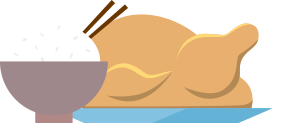
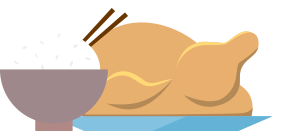
update

diff --git a/src/spritesmith-generated/sprite.scss b/src/spritesmith-generated/sprite.scss
@@ -15,93 +15,93 @@ $next-y: 0px;
 $next-offset-x: 0px;
 $next-offset-y: 0px;
 $next-width: 46px;
-$next-height: 44px;
+$next-height: 60px;
 $next-total-width: 540px;
-$next-total-height: 1922px;
+$next-total-height: 2090px;
 $next-image: '../spritesmith-generated/sprite.png';
-$next: (0px, 0px, 0px, 0px, 46px, 44px, 540px, 1922px, '../spritesmith-generated/sprite.png', 'next', );
+$next: (0px, 0px, 0px, 0px, 46px, 60px, 540px, 2090px, '../spritesmith-generated/sprite.png', 'next', );
 $chicken-name: 'chicken';
 $chicken-x: 0px;
-$chicken-y: 44px;
+$chicken-y: 60px;
 $chicken-offset-x: 0px;
-$chicken-offset-y: -44px;
+$chicken-offset-y: -60px;
 $chicken-width: 285px;
-$chicken-height: 123px;
+$chicken-height: 140px;
 $chicken-total-width: 540px;
-$chicken-total-height: 1922px;
+$chicken-total-height: 2090px;
 $chicken-image: '../spritesmith-generated/sprite.png';
-$chicken: (0px, 44px, 0px, -44px, 285px, 123px, 540px, 1922px, '../spritesmith-generated/sprite.png', 'chicken', );
+$chicken: (0px, 60px, 0px, -60px, 285px, 140px, 540px, 2090px, '../spritesmith-generated/sprite.png', 'chicken', );
 $boy-name: 'boy';
 $boy-x: 0px;
-$boy-y: 167px;
+$boy-y: 200px;
 $boy-offset-x: 0px;
-$boy-offset-y: -167px;
+$boy-offset-y: -200px;
 $boy-width: 155px;
-$boy-height: 183px;
+$boy-height: 200px;
 $boy-total-width: 540px;
-$boy-total-height: 1922px;
+$boy-total-height: 2090px;
 $boy-image: '../spritesmith-generated/sprite.png';
-$boy: (0px, 167px, 0px, -167px, 155px, 183px, 540px, 1922px, '../spritesmith-generated/sprite.png', 'boy', );
+$boy: (0px, 200px, 0px, -200px, 155px, 200px, 540px, 2090px, '../spritesmith-generated/sprite.png', 'boy', );
 $medal-name: 'medal';
 $medal-x: 0px;
-$medal-y: 350px;
+$medal-y: 400px;
 $medal-offset-x: 0px;
-$medal-offset-y: -350px;
+$medal-offset-y: -400px;
 $medal-width: 150px;
-$medal-height: 186px;
+$medal-height: 200px;
 $medal-total-width: 540px;
-$medal-total-height: 1922px;
+$medal-total-height: 2090px;
 $medal-image: '../spritesmith-generated/sprite.png';
-$medal: (0px, 350px, 0px, -350px, 150px, 186px, 540px, 1922px, '../spritesmith-generated/sprite.png', 'medal', );
-$milk-name: 'milk';
-$milk-x: 0px;
-$milk-y: 536px;
-$milk-offset-x: 0px;
-$milk-offset-y: -536px;
-$milk-width: 193px;
-$milk-height: 196px;
-$milk-total-width: 540px;
-$milk-total-height: 1922px;
-$milk-image: '../spritesmith-generated/sprite.png';
-$milk: (0px, 536px, 0px, -536px, 193px, 196px, 540px, 1922px, '../spritesmith-generated/sprite.png', 'milk', );
+$medal: (0px, 400px, 0px, -400px, 150px, 200px, 540px, 2090px, '../spritesmith-generated/sprite.png', 'medal', );
 $fries-name: 'fries';
 $fries-x: 0px;
-$fries-y: 732px;
+$fries-y: 600px;
 $fries-offset-x: 0px;
-$fries-offset-y: -732px;
+$fries-offset-y: -600px;
 $fries-width: 197px;
-$fries-height: 204px;
+$fries-height: 220px;
 $fries-total-width: 540px;
-$fries-total-height: 1922px;
+$fries-total-height: 2090px;
 $fries-image: '../spritesmith-generated/sprite.png';
-$fries: (0px, 732px, 0px, -732px, 197px, 204px, 540px, 1922px, '../spritesmith-generated/sprite.png', 'fries', );
+$fries: (0px, 600px, 0px, -600px, 197px, 220px, 540px, 2090px, '../spritesmith-generated/sprite.png', 'fries', );
+$milk-name: 'milk';
+$milk-x: 0px;
+$milk-y: 820px;
+$milk-offset-x: 0px;
+$milk-offset-y: -820px;
+$milk-width: 193px;
+$milk-height: 220px;
+$milk-total-width: 540px;
+$milk-total-height: 2090px;
+$milk-image: '../spritesmith-generated/sprite.png';
+$milk: (0px, 820px, 0px, -820px, 193px, 220px, 540px, 2090px, '../spritesmith-generated/sprite.png', 'milk', );
 $purse-name: 'purse';
 $purse-x: 0px;
-$purse-y: 936px;
+$purse-y: 1040px;
 $purse-offset-x: 0px;
-$purse-offset-y: -936px;
+$purse-offset-y: -1040px;
 $purse-width: 210px;
-$purse-height: 220px;
+$purse-height: 250px;
 $purse-total-width: 540px;
-$purse-total-height: 1922px;
+$purse-total-height: 2090px;
 $purse-image: '../spritesmith-generated/sprite.png';
-$purse: (0px, 936px, 0px, -936px, 210px, 220px, 540px, 1922px, '../spritesmith-generated/sprite.png', 'purse', );
+$purse: (0px, 1040px, 0px, -1040px, 210px, 250px, 540px, 2090px, '../spritesmith-generated/sprite.png', 'purse', );
 $background-name: 'background';
 $background-x: 0px;
-$background-y: 1156px;
+$background-y: 1290px;
 $background-offset-x: 0px;
-$background-offset-y: -1156px;
+$background-offset-y: -1290px;
 $background-width: 540px;
-$background-height: 766px;
+$background-height: 800px;
 $background-total-width: 540px;
-$background-total-height: 1922px;
+$background-total-height: 2090px;
 $background-image: '../spritesmith-generated/sprite.png';
-$background: (0px, 1156px, 0px, -1156px, 540px, 766px, 540px, 1922px, '../spritesmith-generated/sprite.png', 'background', );
+$background: (0px, 1290px, 0px, -1290px, 540px, 800px, 540px, 2090px, '../spritesmith-generated/sprite.png', 'background', );
 $spritesheet-width: 540px;
-$spritesheet-height: 1922px;
+$spritesheet-height: 2090px;
 $spritesheet-image: '../spritesmith-generated/sprite.png';
-$spritesheet-sprites: ($next, $chicken, $boy, $medal, $milk, $fries, $purse, $background, );
-$spritesheet: (540px, 1922px, '../spritesmith-generated/sprite.png', $spritesheet-sprites, );
+$spritesheet-sprites: ($next, $chicken, $boy, $medal, $fries, $milk, $purse, $background, );
+$spritesheet: (540px, 2090px, '../spritesmith-generated/sprite.png', $spritesheet-sprites, );
 
 // The provided mixins are intended to be used with the array-like variables
 //

diff --git a/src/components/index.vue b/src/components/index.vue
@@ -1,20 +1,32 @@
 <template>
-	<div class="background">
-		<div class="test"></div>
-	</div>
+    <div class="background">
+        <div class="test">
+        	<purse></purse>
+        </div>
+    </div>
 </template>
-
-<style lang = 'sass'>
+<script>
+import Purse from './purse.vue'
+export default {
+    components: {
+        "purse": Purse,
+    },
+}
+</script>
+<style lang='sass'>
 @import '../spritesmith-generated/sprite.scss';
 @import '../scss/common.scss';
-.background{
-	width:100%;
-	height: 100%;
+.background {
+    width: 100%;
+    height: 100%;
+    overflow: hidden;
 }
+
 .test {
-  	@include _sprite($background,1156px);
-  	height: y_size(1156);
-  	width: 100%;
-  	margin-top: 30px;
+    @include _sprite($background, 1156px);
+    height: y_size(1156);
+    width: 100%;
+    margin-top: 30px;
+    height: 100%;
 }
 </style>

diff --git a/src/components/purse.vue b/src/components/purse.vue
@@ -1,0 +1,8 @@
+<template>
+	<div>
+		<slot>this is purse</slot>
+	</div>
+</template>
+<script>
+	
+</script>
